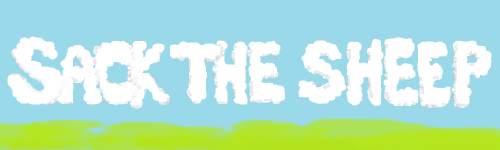
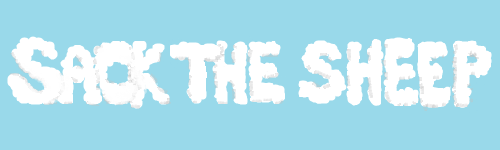
changed some stuff

Changed region(s): [[0.0, 0.7733, 1.0, 1.0]]

diff --git a/menu_PYTHON/menu.py b/menu_PYTHON/menu.py
@@ -3,9 +3,8 @@ import tkinter as tk
 from tkinter import ttk
 # loading Python Imaging Library
 from PIL import ImageTk, Image
-
-def startGame():
-    pass
+# importing level 1
+from ..levels import levels_page
 
 root = tk.Tk()
 root.geometry('500x500')
@@ -24,7 +23,7 @@ title = ImageTk.PhotoImage( Image.open('menu_PYTHON/menuAssets/titlePot.png'), I
 labelTitle = tk.Label(frameA, image=title)
 labelTitle.place(relx=0.5, rely=0.5, anchor='center')
 
-img = ImageTk.PhotoImage(Image.open('menu_PYTHON/menuAssets/grass-588.jpg'), Image.ANTIALIAS)
+img = ImageTk.PhotoImage(Image.open('assets/grass-588.jpg'), Image.ANTIALIAS)
 lbl = tk.Label(frameB, image=img)
 lbl.place(relx=0.5, rely=0.5,anchor='center')  # Place label in center of parent.
 
